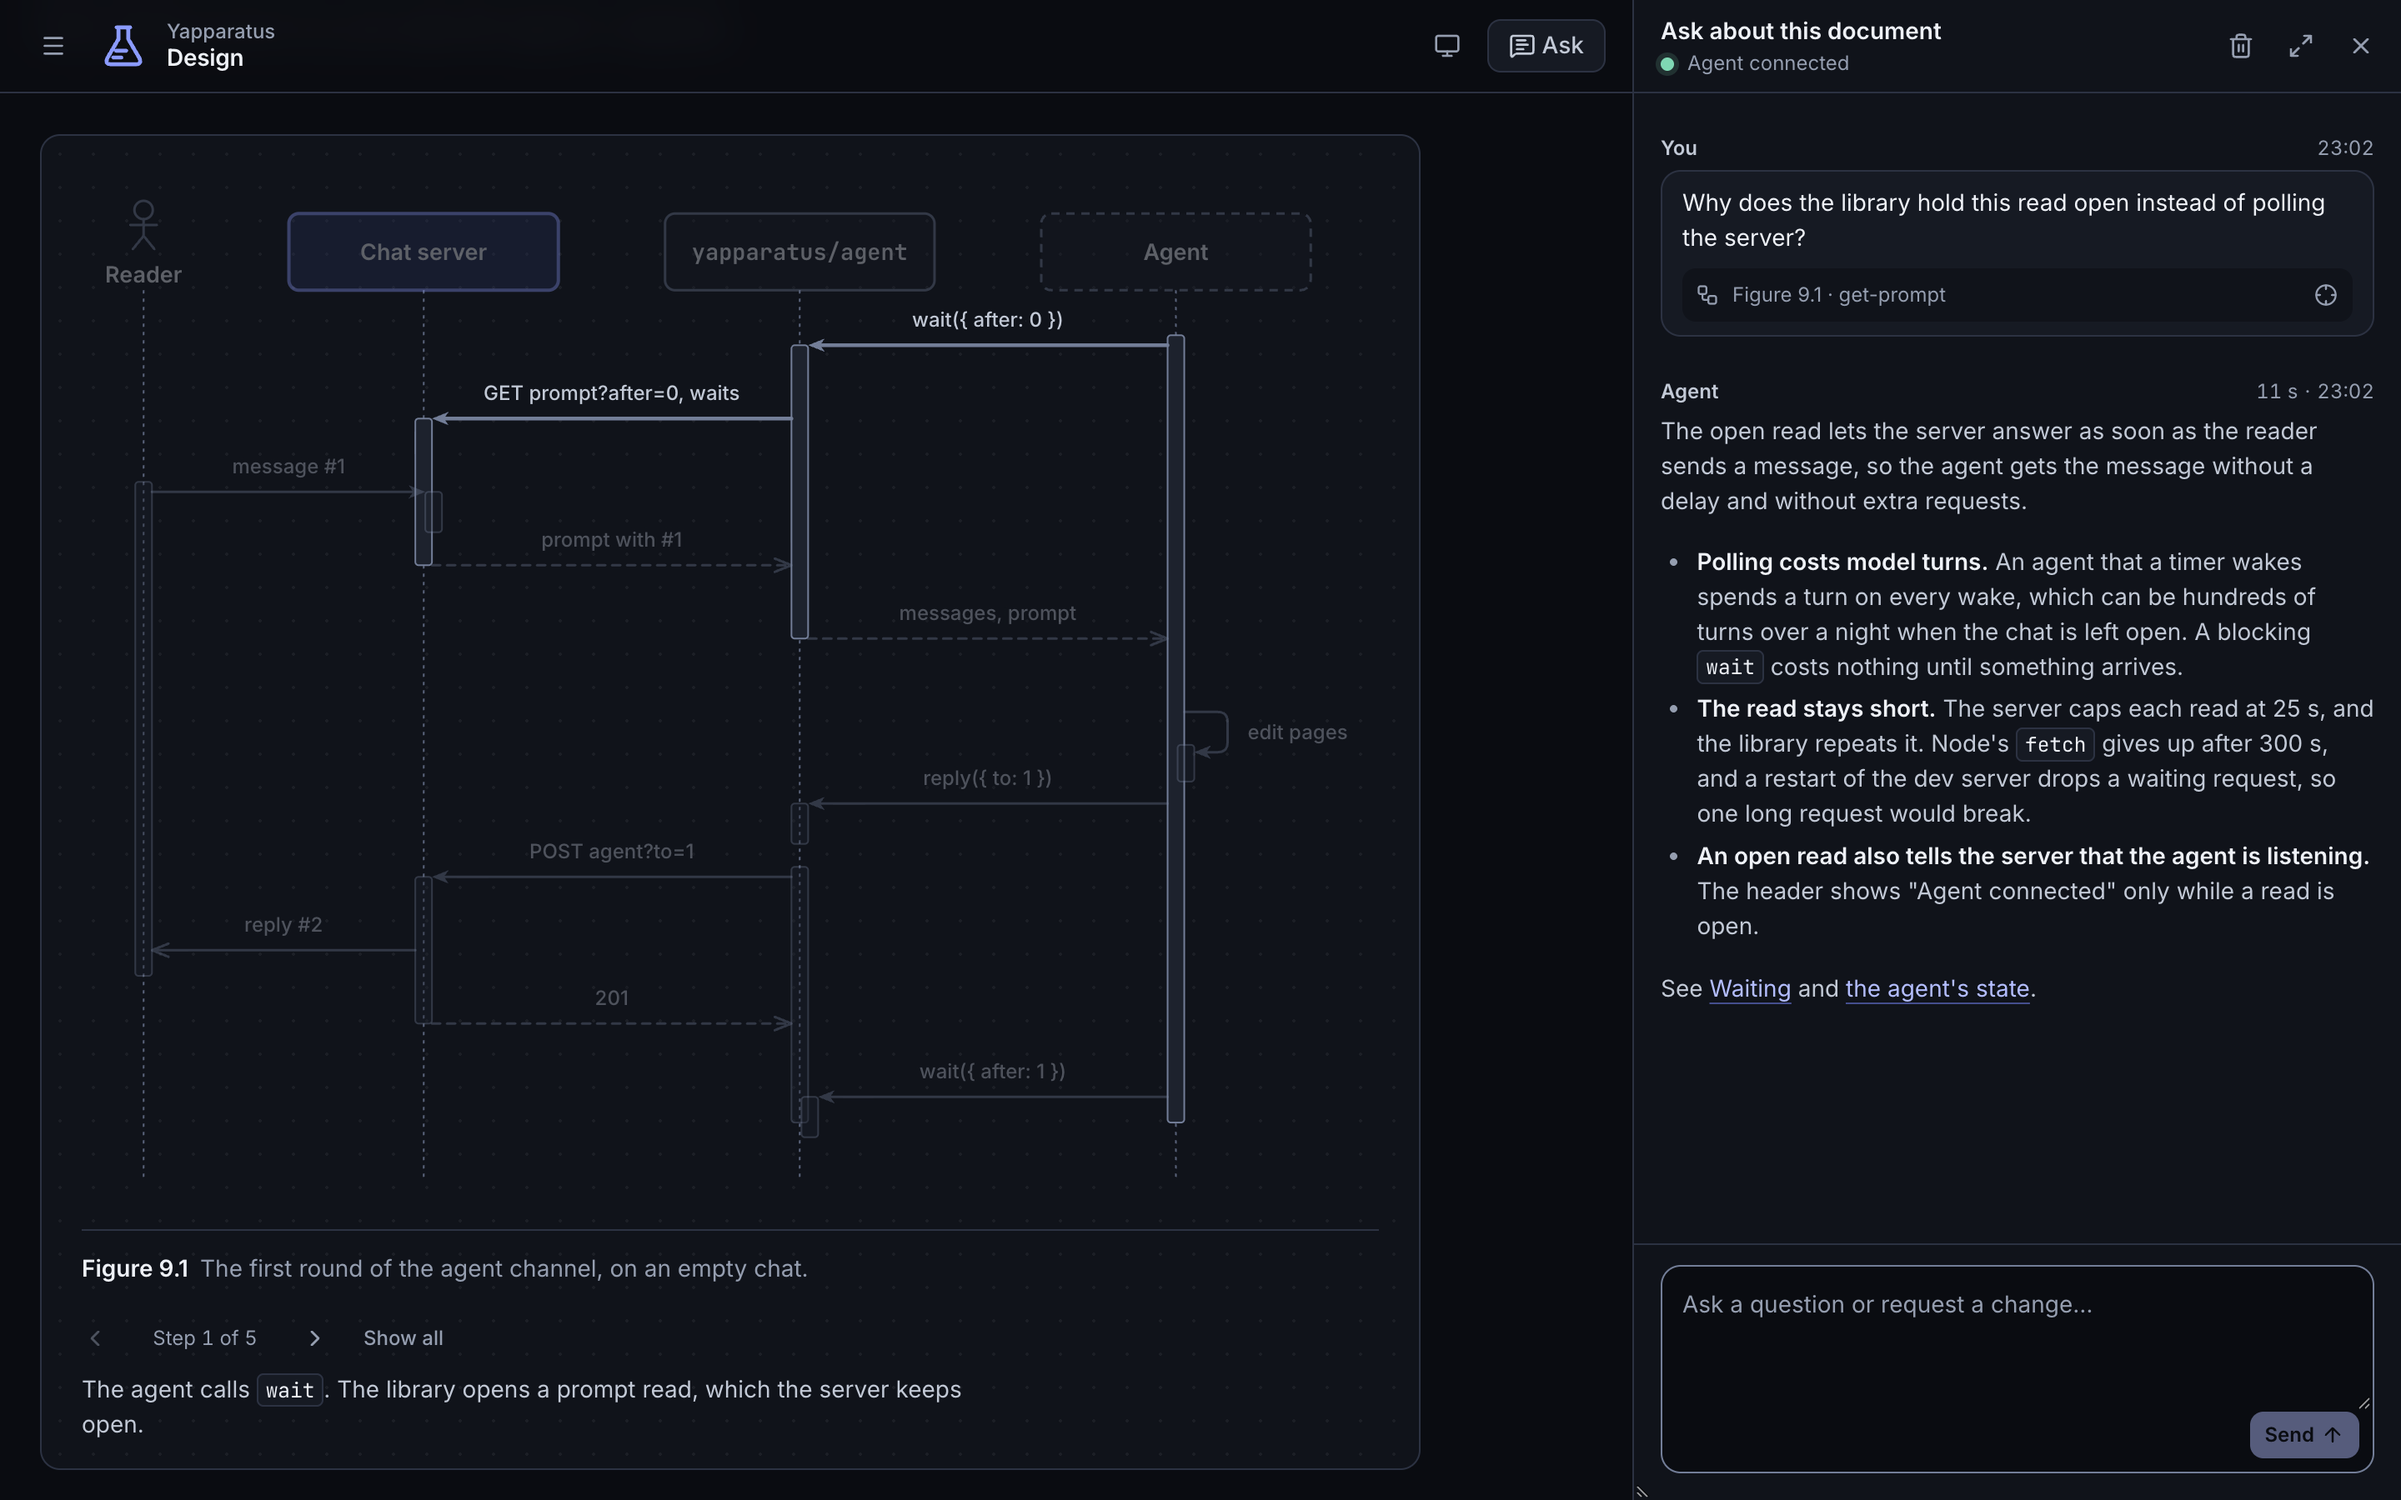
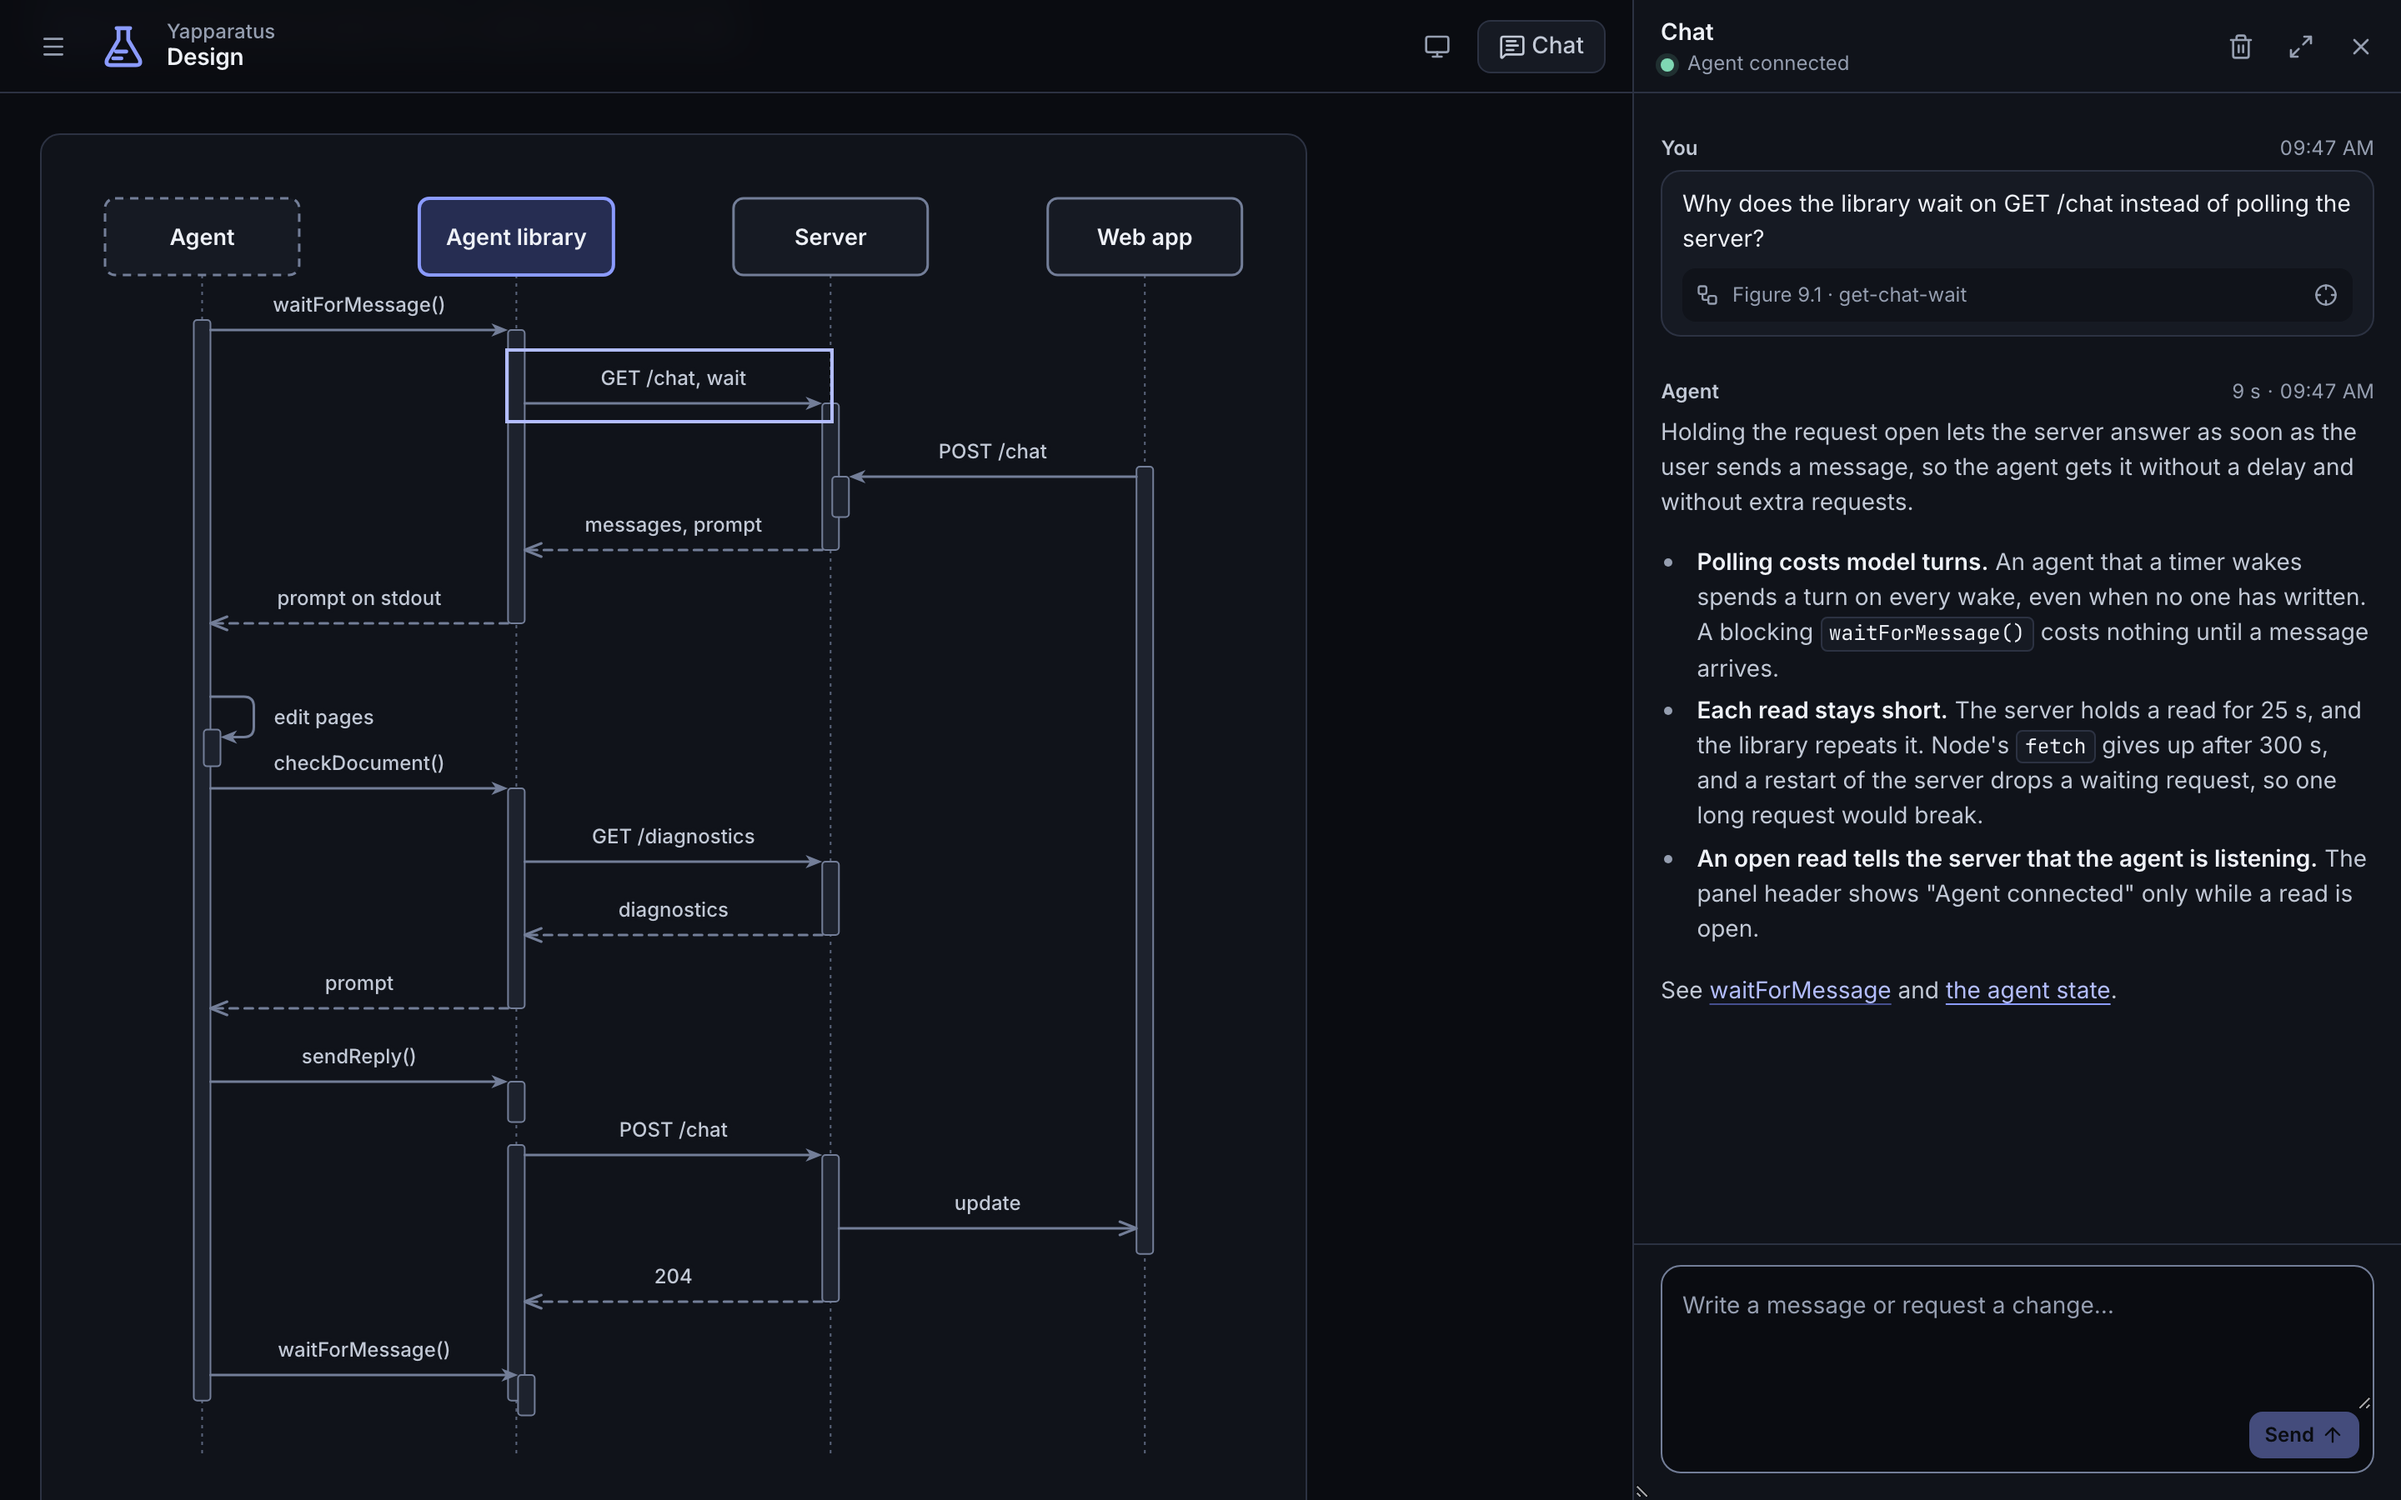
Updated screenshot

diff --git a/scripts/screenshots.ts b/scripts/screenshots.ts
@@ -1,0 +1,141 @@
+/**
+ * Takes the README screenshots, assets/screenshot-{light,dark}.png, from the design document
+ * served in a copy of the project, with a scripted question and agent reply. See assets/README.md.
+ */
+import { type ChildProcess, spawn } from "node:child_process";
+import { cpSync, mkdtempSync, realpathSync, rmSync, symlinkSync } from "node:fs";
+import os from "node:os";
+import path from "node:path";
+import { chromium, type Page } from "@playwright/test";
+import { createServer } from "vite";
+
+/** The page, the figure, and the diagram element the question is about. */
+const scene = { page: "agent-library", figure: "agent-round", element: "get-chat-wait" };
+
+/** The question the reader asks about the element. */
+const question = "Why does the library wait on GET /chat instead of polling the server?";
+
+/** The agent's reply, in MDX. Keep it true to the design document. */
+const reply = `Holding the request open lets the server answer as soon as the user sends a message, so the agent gets it without a delay and without extra requests.
+
+- **Polling costs model turns.** An agent that a timer wakes spends a turn on every wake, even when no one has written. A blocking \`waitForMessage()\` costs nothing until a message arrives.
+- **Each read stays short.** The server holds a read for 25 s, and the library repeats it. Node's \`fetch\` gives up after 300 s, and a restart of the server drops a waiting request, so one long request would break.
+- **An open read tells the server that the agent is listening.** The panel header shows "Agent connected" only while a read is open.
+
+See [waitForMessage](agent-library#waitformessage) and [the agent state](server#agent-state).
+`;
+
+/** How long the agent seems to work before it replies, shown in the reply's header. */
+const workMs = 9000;
+
+/** The port of the screenshot server, apart from the dev server's 5173 and the tests' 4173. */
+const port = 5180;
+
+/** Top-level entries of the project that the workspace leaves out. */
+const skipped = new Set([
+  "node_modules",
+  ".git",
+  ".yapparatus",
+  ".cache",
+  "dist",
+  "dist-single",
+  "test-results",
+  "playwright-report",
+  "starter",
+]);
+
+const root = mkdtempSync(path.join(realpathSync(os.tmpdir()), "yapparatus-screenshots-"));
+cpSync(".", root, {
+  recursive: true,
+  filter: (source) => !skipped.has(path.relative(".", source).split(path.sep)[0] ?? ""),
+});
+symlinkSync(path.resolve("node_modules"), path.join(root, "node_modules"), "dir");
+
+/** The agent processes, stopped before the server so a waiting one does not report it gone. */
+const agents = new Set<ChildProcess>();
+
+/** Run agent library code in the workspace as the agent does, with `input` on stdin. */
+function agent(code: string, input?: string): Promise<void> {
+  const child = spawn(
+    process.execPath,
+    ["--input-type=module", "-e", `import * as a from "./lib/agent/index.js"; ${code}`],
+    { cwd: root, stdio: [input === undefined ? "ignore" : "pipe", "ignore", "inherit"] },
+  );
+  agents.add(child);
+  child.stdin?.end(input);
+  return new Promise((resolve, reject) =>
+    child.on("exit", (status) => {
+      agents.delete(child);
+      if (status) reject(new Error(`agent: ${code} exited with ${status}`));
+      else resolve();
+    }),
+  );
+}
+
+/** Ask the question about the scene's element in the chat panel. */
+async function ask(page: Page): Promise<void> {
+  await page.getByRole("button", { name: "Chat", exact: true }).click();
+  await page.locator(`article [data-element-id=${scene.element}] text`).first().click();
+  await page.getByLabel("Message", { exact: true }).fill(question);
+  await page.getByRole("button", { name: "Send", exact: true }).click();
+}
+
+/** Show the referenced element, scroll its figure to the top, and save the screenshot. */
+async function capture(page: Page, file: string): Promise<void> {
+  const connected = page.getByText("Agent connected", { exact: true });
+  if (!(await connected.isVisible()))
+    await page.getByRole("button", { name: "Chat", exact: true }).click();
+  await connected.waitFor();
+  await page.getByRole("button", { name: /^Show .* on the page$/ }).click();
+  await page
+    .locator(`#${scene.figure}`)
+    .evaluate((figure) => (figure.closest("figure") ?? figure).scrollIntoView({ block: "start" }));
+  await page.mouse.move(1200, 600);
+  await page.waitForTimeout(1000);
+  await page.screenshot({ path: file });
+}
+
+const { yapparatus } = (await import(
+  path.join(root, "lib", "vite", "plugin.js")
+)) as typeof import("../src/vite/plugin.ts");
+const server = await createServer({
+  root,
+  configFile: false,
+  logLevel: "warn",
+  cacheDir: path.join(root, ".vite"),
+  plugins: yapparatus({ document: "docs/design" }),
+  server: {
+    host: "127.0.0.1",
+    port,
+    strictPort: true,
+    fs: { allow: [root, path.resolve("node_modules")] },
+  },
+});
+const browser = await chromium.launch();
+try {
+  await server.listen();
+  const url = `http://127.0.0.1:${port}/${scene.page}`;
+  const viewport = { width: 1440, height: 900 };
+  const first = await browser.newPage({ viewport });
+  await first.goto(url);
+  const read = agent("await a.waitForMessage();");
+  await ask(first);
+  await read;
+  await first.close();
+  await new Promise((resolve) => setTimeout(resolve, workMs));
+  await agent("await a.sendReply();", reply);
+  void agent("await a.waitForMessage();").catch(() => {});
+  for (const colorScheme of ["light", "dark"] as const) {
+    const page = await browser.newPage({ viewport, deviceScaleFactor: 2, colorScheme });
+    await page.goto(url);
+    await capture(page, path.join("assets", `screenshot-${colorScheme}.png`));
+    process.stdout.write(`wrote assets/screenshot-${colorScheme}.png\n`);
+    await page.close();
+  }
+} finally {
+  for (const child of agents) child.kill();
+  await browser.close();
+  await server.close();
+  rmSync(root, { recursive: true, force: true });
+}
+process.exit(0);

diff --git a/assets/README.md b/assets/README.md
@@ -1,0 +1,26 @@
+# Assets
+
+The logo and the screenshots that the project README shows.
+
+## Screenshots
+
+`screenshot-light.png` and `screenshot-dark.png` show the design document with the chat panel open: a question about an arrow of a sequence diagram, and the agent's reply. To take them again after the web app changes:
+
+```sh
+pnpm exec playwright install chromium   # once
+pnpm screenshots
+```
+
+`scripts/screenshots.ts` writes both files in about 20 seconds. It leaves the chat of your own dev server alone:
+
+1. It copies the project to a temporary folder and serves `docs/design` there on port 5180, with its own Vite cache.
+2. In Chromium, it opens the chat, selects the arrow, and sends the question.
+3. It acts as the agent through the agent library: it reads the message, waits 9 seconds so the reply shows a working time, and sends the reply. A second wait keeps the header at "Agent connected".
+4. For each color scheme, it opens the page at 1440×900 with a device scale of 2, shows the referenced arrow, scrolls the figure to the top, and saves the screenshot.
+
+The page, the figure, the arrow, the question, and the reply are constants at the top of the script. When the design document changes:
+
+- If the page, the figure, or the element id is renamed, update `scene`.
+- If the design changes what the reply says, update `reply` so it stays true to the document.
+
+Look at both images before committing them.
